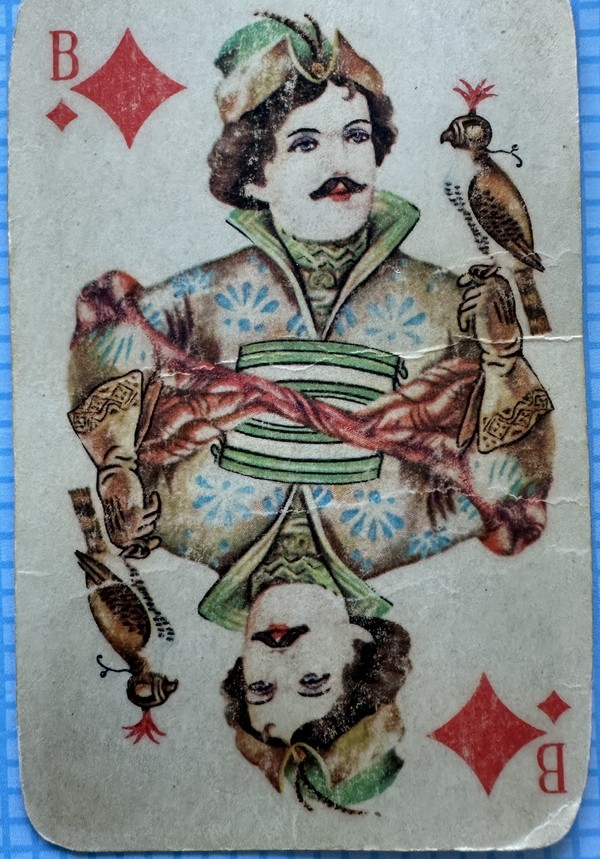
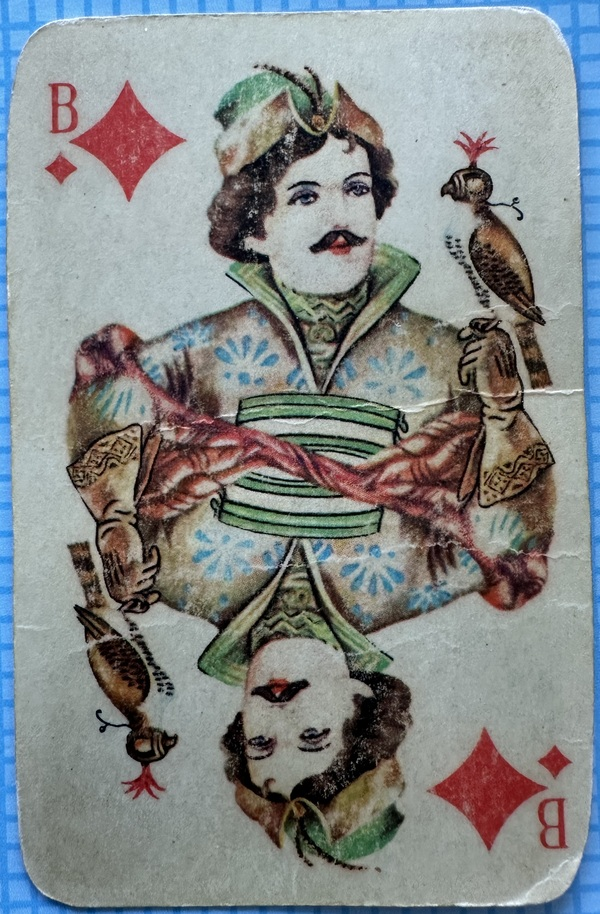
Fix J of diamonds: preserve full card, stop cutting inside top perimeter
Re-cropped from source using full card-outline bbox detection so the
cream-white top border above the head is preserved. Previous crop cut
inside the card. Updated v1 base, v2-masked, and live app PNG.

diff --git a/index.html b/index.html
@@ -1442,7 +1442,7 @@ function drawRussian() {
       front.innerHTML = '';
       const el = document.createElement('img');
       el.id = `img${i}`; el.alt = '';
-      el.src = localFile + '?v=masked1';
+      el.src = localFile + '?v=jd2';
       front.appendChild(el);
     } else {
       const color = (card.suit === '♥' || card.suit === '♦') ? '#b01020' : '#111';
